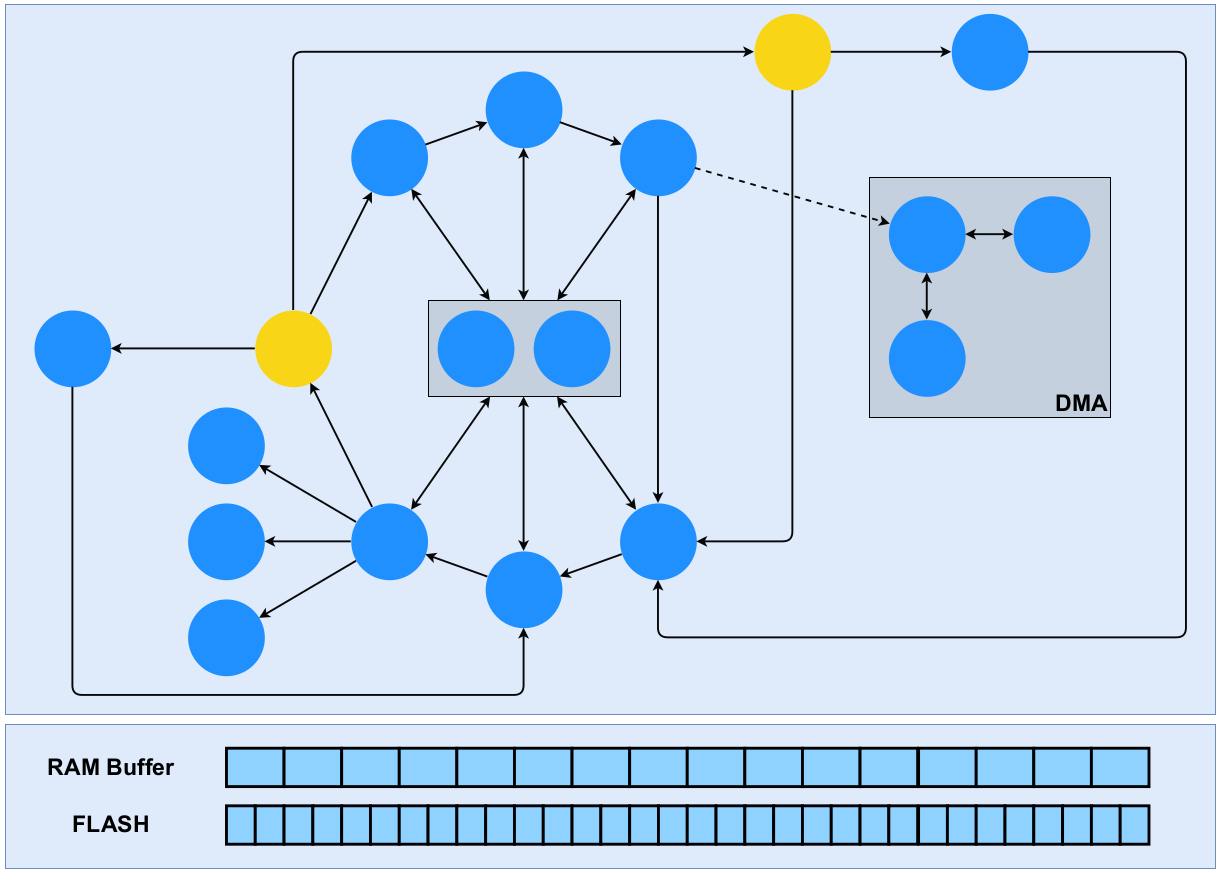
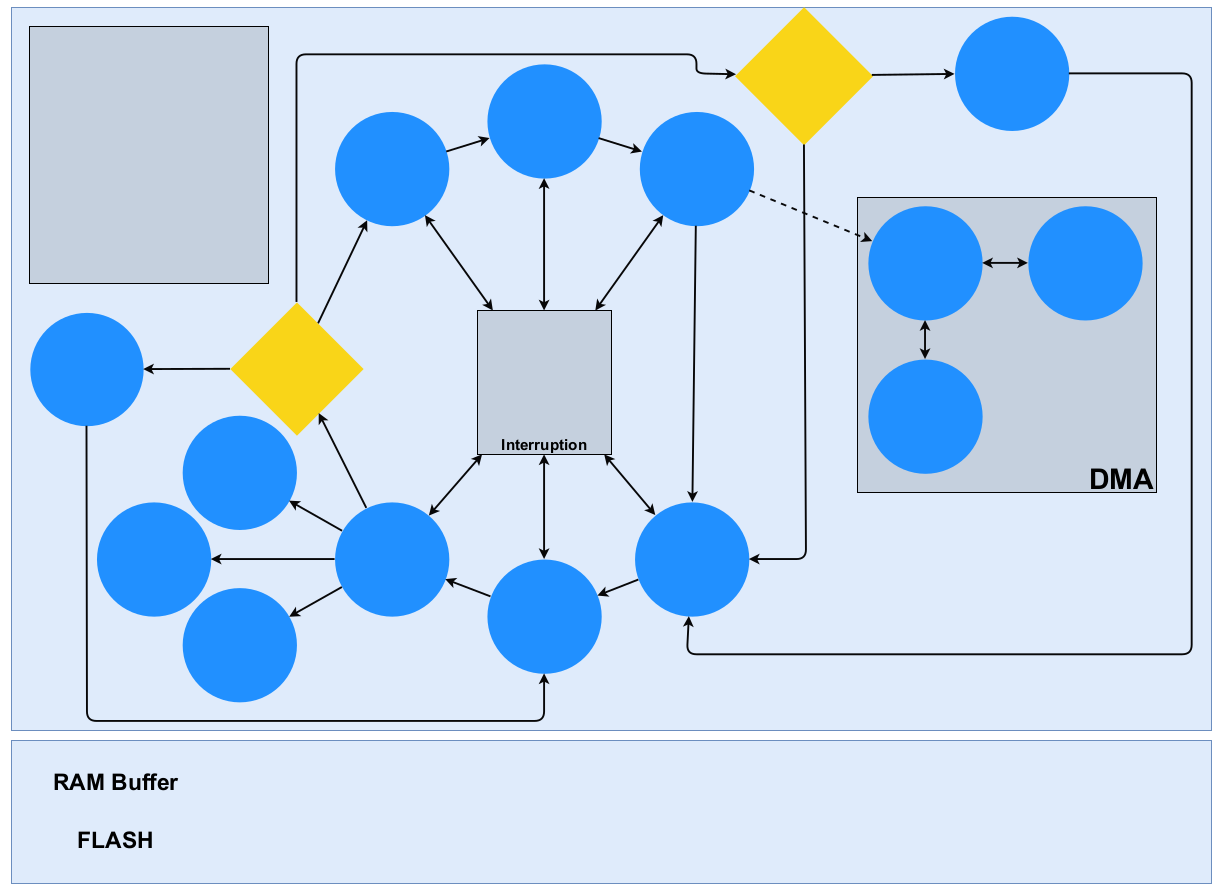
adding style to GUI

diff --git a/gui/mainwindow.cpp b/gui/mainwindow.cpp
@@ -75,9 +75,9 @@ MainWindow::MainWindow(QWidget *parent, StateSignalHandler *stateSignalHandler) 
     {
 
             // Si no es un buffer, crea un círculo
-            QGraphicsEllipseItem *circle = new QGraphicsEllipseItem(0, 0, 50, 50);
+            QGraphicsEllipseItem *circle = new QGraphicsEllipseItem(0, 0, 71, 71);
             circle->setBrush(QColor(33, 144, 255));
-            circle->setPen(QPen(Qt::black, 2)); // Grosor y color del borde
+            // circle->setPen(QPen(Qt::black, 2)); // Grosor y color del borde
             sceneMap[key]->addItem(circle);
             circleMap[key] = circle;
 
@@ -135,6 +135,7 @@ void MainWindow::updateConfigurations()
 {
     //BUFFER_SIZE = ui->lineEditBufferSize->text().toInt();
     STATE_GENERAL_DURATION = ui->lineEditStateGeneralDuration->text().toInt();
+    RESOURCE_RTC_DURATION = ui->lineEditResourceRtcDuration->text().toInt();
 }
 
 MainWindow::~MainWindow()

diff --git a/threads/Custom_Event_Handler.cpp b/threads/Custom_Event_Handler.cpp
@@ -14,7 +14,7 @@ void *custom_run(void *arg)
         {
             state->waitCondition();
         }
-
+        stateSignalHandler->onWorking("Rtc", false);
         stateSignalHandler->onWorking("Custom", true);
         printf("Custom_Event_Handler ejecutando...\n");
         usleep(STATE_GENERAL_DURATION); // Simulación de trabajo

diff --git a/threads/FSR_Acquisition.cpp b/threads/FSR_Acquisition.cpp
@@ -15,7 +15,6 @@ void *fsr_run(void *arg)
         {
             state->waitCondition();
         }
-        stateSignalHandler->onWorking("Rtc", false);
         stateSignalHandler->onWorking("Fsr", true);
         printf("FSR_Acquisition ejecutando...\n");
         usleep(STATE_GENERAL_DURATION); // Simulación de trabajo
